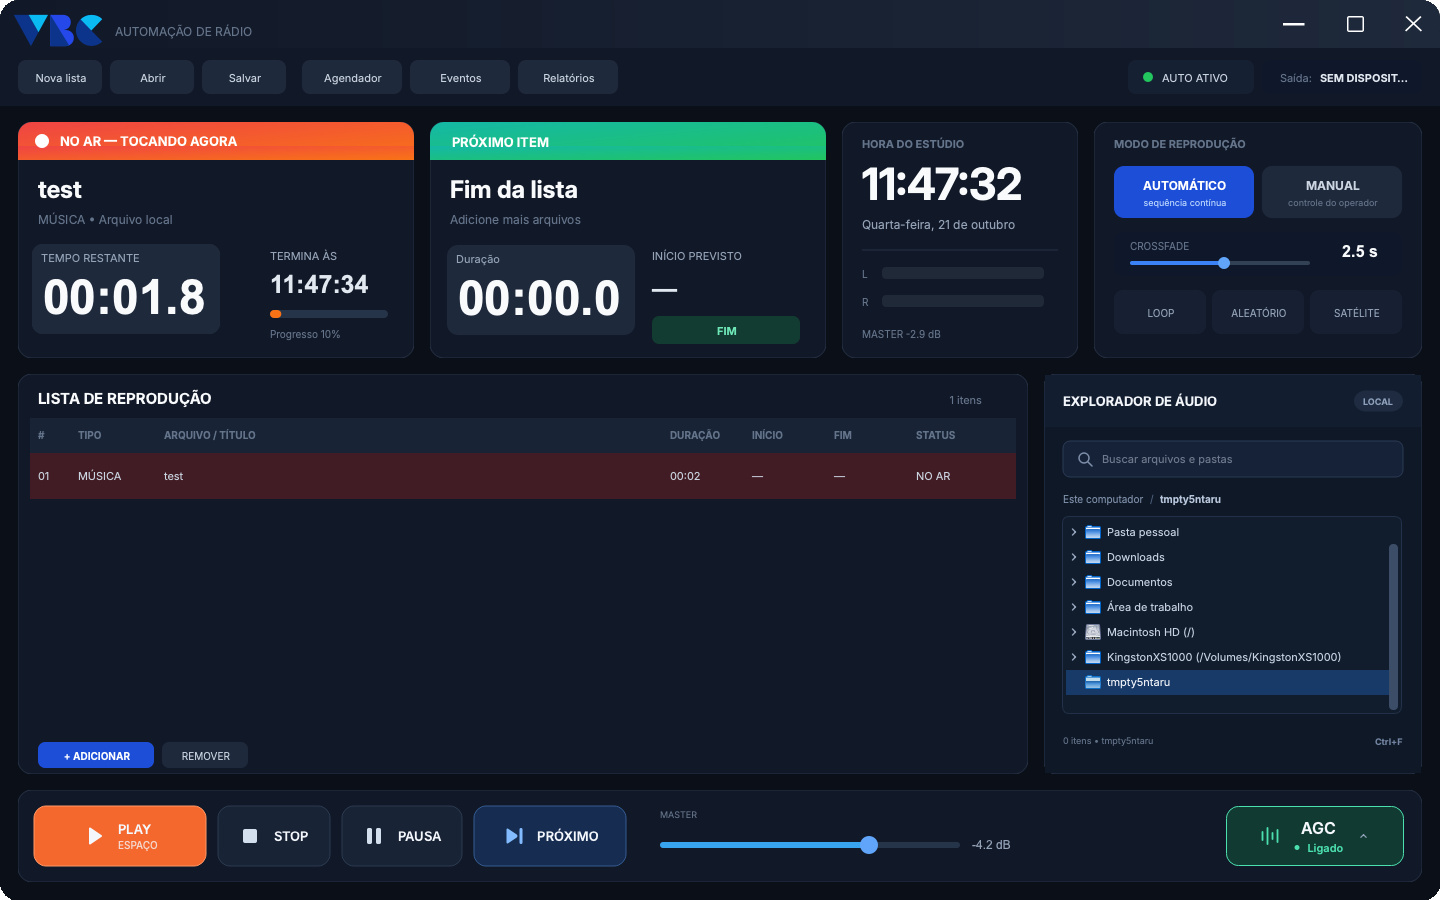
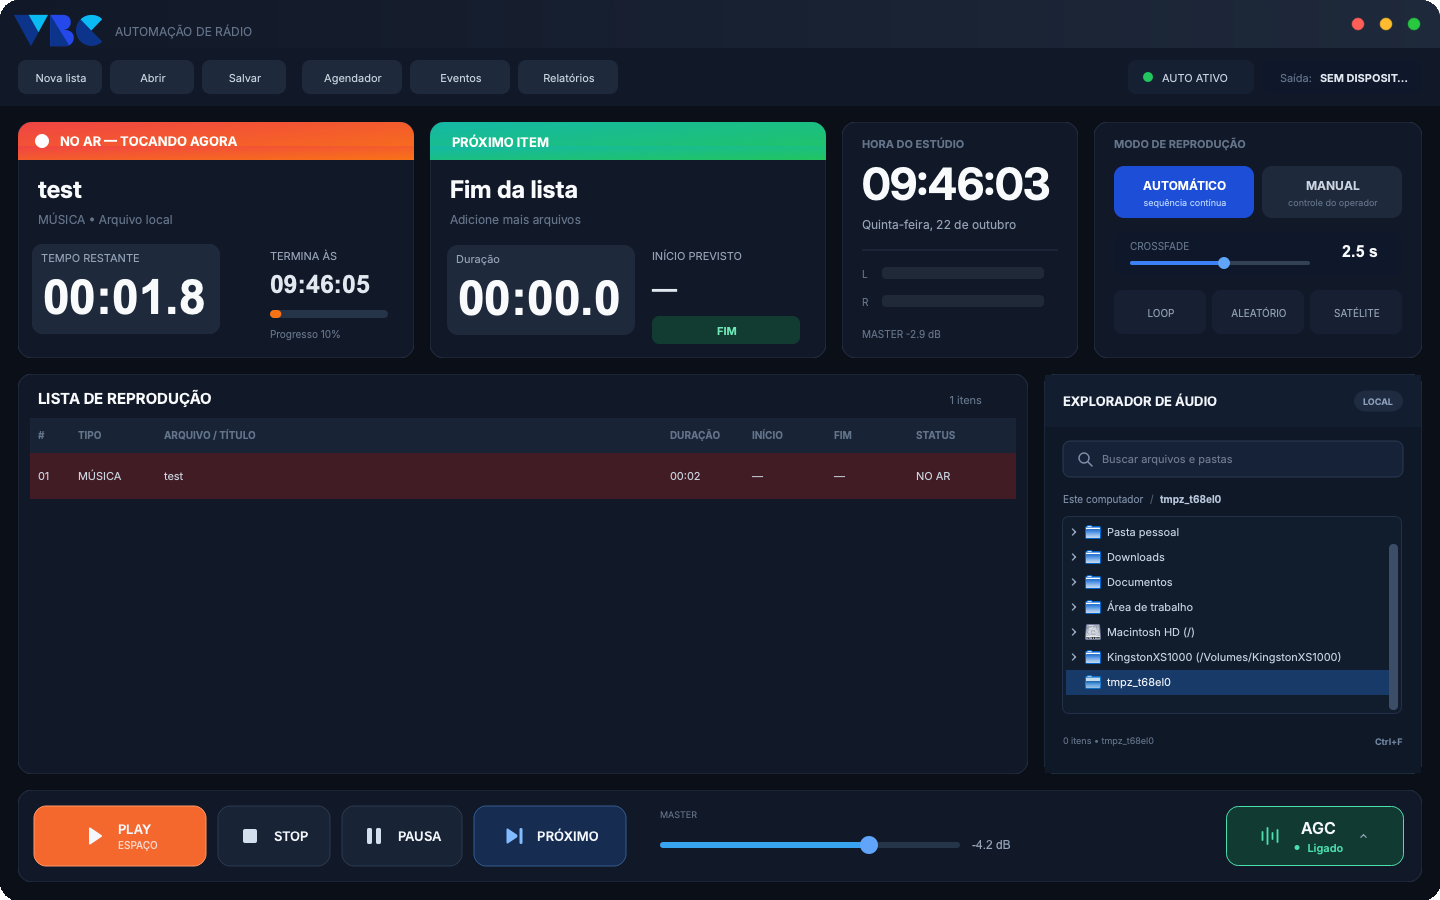
alteração nos botões

diff --git a/vbc_player/common/widgets/window_controls.py b/vbc_player/common/widgets/window_controls.py
@@ -1,0 +1,150 @@
+"""Controles da janela: semáforo macOS e botões Windows/Linux."""
+import sys
+
+from PySide6.QtCore import QEvent, QPointF, QRectF, Qt
+from PySide6.QtGui import QColor, QPainter, QPen, QPolygonF
+from PySide6.QtWidgets import QAbstractButton, QHBoxLayout, QWidget
+
+
+class WindowControlButton(QAbstractButton):
+    def __init__(self, action, controls):
+        super().__init__(controls)
+        self.action = action
+        self.controls = controls
+        self._keyboard_focus = False
+        self.setFixedSize(28 if controls.mac_style else 46, 48)
+        self.setFocusPolicy(Qt.FocusPolicy.StrongFocus)
+        self.setAttribute(Qt.WidgetAttribute.WA_MacShowFocusRect, False)
+
+    def enterEvent(self, event):
+        self.controls.update_buttons()
+        super().enterEvent(event)
+
+    def leaveEvent(self, event):
+        self.controls.update_buttons()
+        super().leaveEvent(event)
+
+    def focusInEvent(self, event):
+        self._keyboard_focus = event.reason() in (
+            Qt.FocusReason.TabFocusReason, Qt.FocusReason.BacktabFocusReason,
+            Qt.FocusReason.ShortcutFocusReason,
+        )
+        super().focusInEvent(event)
+        self.update()
+
+    def mousePressEvent(self, event):
+        self._keyboard_focus = False
+        super().mousePressEvent(event)
+        self.update()
+
+    def paintEvent(self, event):
+        painter = QPainter(self)
+        painter.setRenderHint(QPainter.RenderHint.Antialiasing)
+        if self.controls.mac_style:
+            self._paint_mac(painter)
+        else:
+            self._paint_windows(painter)
+
+    def _paint_mac(self, painter):
+        color = {"close": "#ff5f57", "minimize": "#febc2e", "maximize": "#28c840"}[self.action]
+        painter.setPen(QPen(QColor(color).darker(115), .6))
+        painter.setBrush(QColor(color).darker(120) if self.isDown() else QColor(color))
+        center = QPointF(self.width() / 2, self.height() / 2)
+        painter.drawEllipse(center, 6, 6)
+        if self.controls.underMouse() or self.underMouse() or (self.hasFocus() and self._keyboard_focus):
+            painter.save()
+            painter.translate(center)
+            painter.setPen(QPen(QColor("#55201d" if self.action == "close" else "#4b421c" if self.action == "minimize" else "#155624"), 1.15))
+            if self.action == "close":
+                painter.drawLine(QPointF(-2.5, -2.5), QPointF(2.5, 2.5))
+                painter.drawLine(QPointF(-2.5, 2.5), QPointF(2.5, -2.5))
+            elif self.action == "minimize":
+                painter.drawLine(QPointF(-3, 0), QPointF(3, 0))
+            else:
+                painter.setPen(Qt.PenStyle.NoPen)
+                painter.setBrush(QColor("#155624"))
+                # Duas setas diagonais, como o controle de tela cheia do Mac.
+                for points in (((-3, -3), (1, -3), (-3, 1)), ((3, 3), (-1, 3), (3, -1))):
+                    painter.drawPolygon(QPolygonF([QPointF(x, y) for x, y in points]))
+            painter.restore()
+        if self.hasFocus() and self._keyboard_focus:
+            painter.setBrush(Qt.BrushStyle.NoBrush)
+            painter.setPen(QPen(QColor("#70b8ff"), 1))
+            painter.drawEllipse(center, 9, 9)
+
+    def _paint_windows(self, painter):
+        if self.underMouse() or self.isDown():
+            color = "#c42b1c" if self.action == "close" else "#ffffff"
+            background = QColor(color)
+            if self.action != "close":
+                background.setAlpha(40 if self.isDown() else 22)
+            elif self.isDown():
+                background = background.darker(120)
+            painter.fillRect(self.rect(), background)
+        painter.translate(self.width() / 2, self.height() / 2)
+        painter.setPen(QPen(QColor("#f4f7fc"), 1))
+        painter.setBrush(Qt.BrushStyle.NoBrush)
+        if self.action == "minimize":
+            painter.drawLine(QPointF(-5, .5), QPointF(5, .5))
+        elif self.action == "close":
+            painter.drawLine(QPointF(-5, -5), QPointF(5, 5))
+            painter.drawLine(QPointF(-5, 5), QPointF(5, -5))
+        elif self.controls.window.isMaximized() or self.controls.window.isFullScreen():
+            painter.drawPolyline(QPolygonF([QPointF(-2.5, -3.5), QPointF(-2.5, -5.5), QPointF(5.5, -5.5), QPointF(5.5, 2.5), QPointF(3.5, 2.5)]))
+            painter.drawRect(QRectF(-5.5, -2.5, 8, 8))
+        else:
+            painter.drawRect(QRectF(-4.5, -4.5, 9, 9))
+        if self.hasFocus() and self._keyboard_focus:
+            painter.setPen(QPen(QColor("#70b8ff"), 1))
+            painter.drawRect(QRectF(-self.width() / 2 + 3, -self.height() / 2 + 3, self.width() - 6, self.height() - 6))
+
+
+class WindowControls(QWidget):
+    def __init__(self, window, parent=None):
+        super().__init__(parent)
+        self.window = window
+        self.mac_style = sys.platform == "darwin"
+        self.setAttribute(Qt.WidgetAttribute.WA_TranslucentBackground)
+        layout = QHBoxLayout(self)
+        layout.setContentsMargins(4 if self.mac_style else 0, 0, 12 if self.mac_style else 0, 0)
+        layout.setSpacing(0)
+        self.buttons = {}
+        for action in (("close", "minimize", "maximize") if self.mac_style else ("minimize", "maximize", "close")):
+            button = WindowControlButton(action, self)
+            layout.addWidget(button)
+            self.buttons[action] = button
+        self.buttons["close"].clicked.connect(window.close)
+        self.buttons["minimize"].clicked.connect(window.showMinimized)
+        self.buttons["maximize"].clicked.connect(self._maximize)
+        self.setFixedSize(100 if self.mac_style else 138, 48)
+        window.installEventFilter(self)
+        self.update_buttons()
+
+    def _maximize(self):
+        if self.window.isFullScreen() or self.window.isMaximized():
+            self.window.showNormal()
+        elif self.mac_style:
+            self.window.showFullScreen()
+        else:
+            self.window.showMaximized()
+
+    def update_buttons(self):
+        expanded = self.window.isMaximized() or self.window.isFullScreen()
+        labels = {"close": "Fechar", "minimize": "Minimizar", "maximize": "Restaurar" if expanded else "Tela cheia" if self.mac_style else "Maximizar"}
+        for action, button in self.buttons.items():
+            button.setAccessibleName(labels[action])
+            button.setToolTip(labels[action])
+            button.update()
+
+    def eventFilter(self, watched, event):
+        if event.type() in (QEvent.Type.WindowStateChange, QEvent.Type.ActivationChange):
+            self.update_buttons()
+        return super().eventFilter(watched, event)
+
+    def enterEvent(self, event):
+        self.update_buttons()
+        super().enterEvent(event)
+
+    def leaveEvent(self, event):
+        self.update_buttons()
+        super().leaveEvent(event)

diff --git a/vbc_player/common/widgets/header.py b/vbc_player/common/widgets/header.py
@@ -1,23 +1,31 @@
 from PySide6.QtCore import Qt
 from PySide6.QtGui import QColor, QLinearGradient, QPainter
 from vbc_player.common.widgets.design_panel import DesignPanel
+from vbc_player.common.widgets.window_controls import WindowControls
 
 
 class HeaderWidget(DesignPanel):
     def __init__(self, window):
         super().__init__("24:2", window)
         self.window = window
-        for component in ("29:6", "56:298"):
+        self.hidden.update({"56:292", "56:304"})
+        for component in ("29:6",):
             node = self._components[component]
             self.design.setdefault("c", []).append(node)
             from vbc_player.common.widgets.design_panel import descendants
             self.nodes.update({n["id"]: n for n in descendants(node)})
-        self.button("Minimizar", (1270, 0, 48, 48), window.showMinimized)
-        self.button("Maximizar / restaurar", (1330, 0, 48, 48), self._maximize)
-        self.button("Fechar", (1390, 0, 50, 48), window.close)
+        self.controls = WindowControls(window, self)
+        self._place_window_controls()
+
+    def _place_window_controls(self):
+        self.controls.move(self.width() - self.controls.width(), 0)
+
+    def resizeEvent(self, event):
+        super().resizeEvent(event)
+        self._place_window_controls()
 
     def _maximize(self):
-        self.window.showNormal() if self.window.isMaximized() else self.window.showMaximized()
+        self.window.showNormal() if self.window.isMaximized() or self.window.isFullScreen() else self.window.showMaximized()
 
     def paintEvent(self, event):
         if self.window.isMaximized() or self.window.isFullScreen():

diff --git a/vbc_player/pages/player/widgets/playlist.py b/vbc_player/pages/player/widgets/playlist.py
@@ -90,8 +90,6 @@ class PlaylistWidget(DesignPanel):
         self.service = service
         self.selected = 0
         self.hovered_row = -1
-        self.button("Adicionar áudio", self.local_rect("17:545"), self.import_audio)
-        self.button("Remover item selecionado", self.local_rect("17:547"), self.remove_selected)
         self.setAcceptDrops(True)
         self.table = PlaylistTable(0, 8, self)
         self.table.setAcceptDrops(True)
@@ -165,9 +163,6 @@ class PlaylistWidget(DesignPanel):
     def add_tracks(self, paths):
         self.service.add_tracks(paths)
 
-    def remove_selected(self):
-        self.service.remove(self.selected)
-
     def _selected(self):
         self.selected = self.table.currentRow()
         self._apply_row_colors()
@@ -197,9 +192,9 @@ class PlaylistWidget(DesignPanel):
         self.table.viewport().update()
 
     def refresh(self):
-        # Hide the original demo header/rows, while reusing the frame and actions.
+        # Mantém apenas o painel, o título e a contagem do desenho original.
         for node in self.design.get("c", []):
-            if node["id"] not in {"17:481", "17:482", "17:483", "17:545", "17:546", "17:547", "17:548"}:
+            if node["id"] not in {"17:481", "17:482", "17:483"}:
                 self.hidden.add(node["id"])
         self.table.show()
         self.table.setRowCount(len(self.service.tracks))
